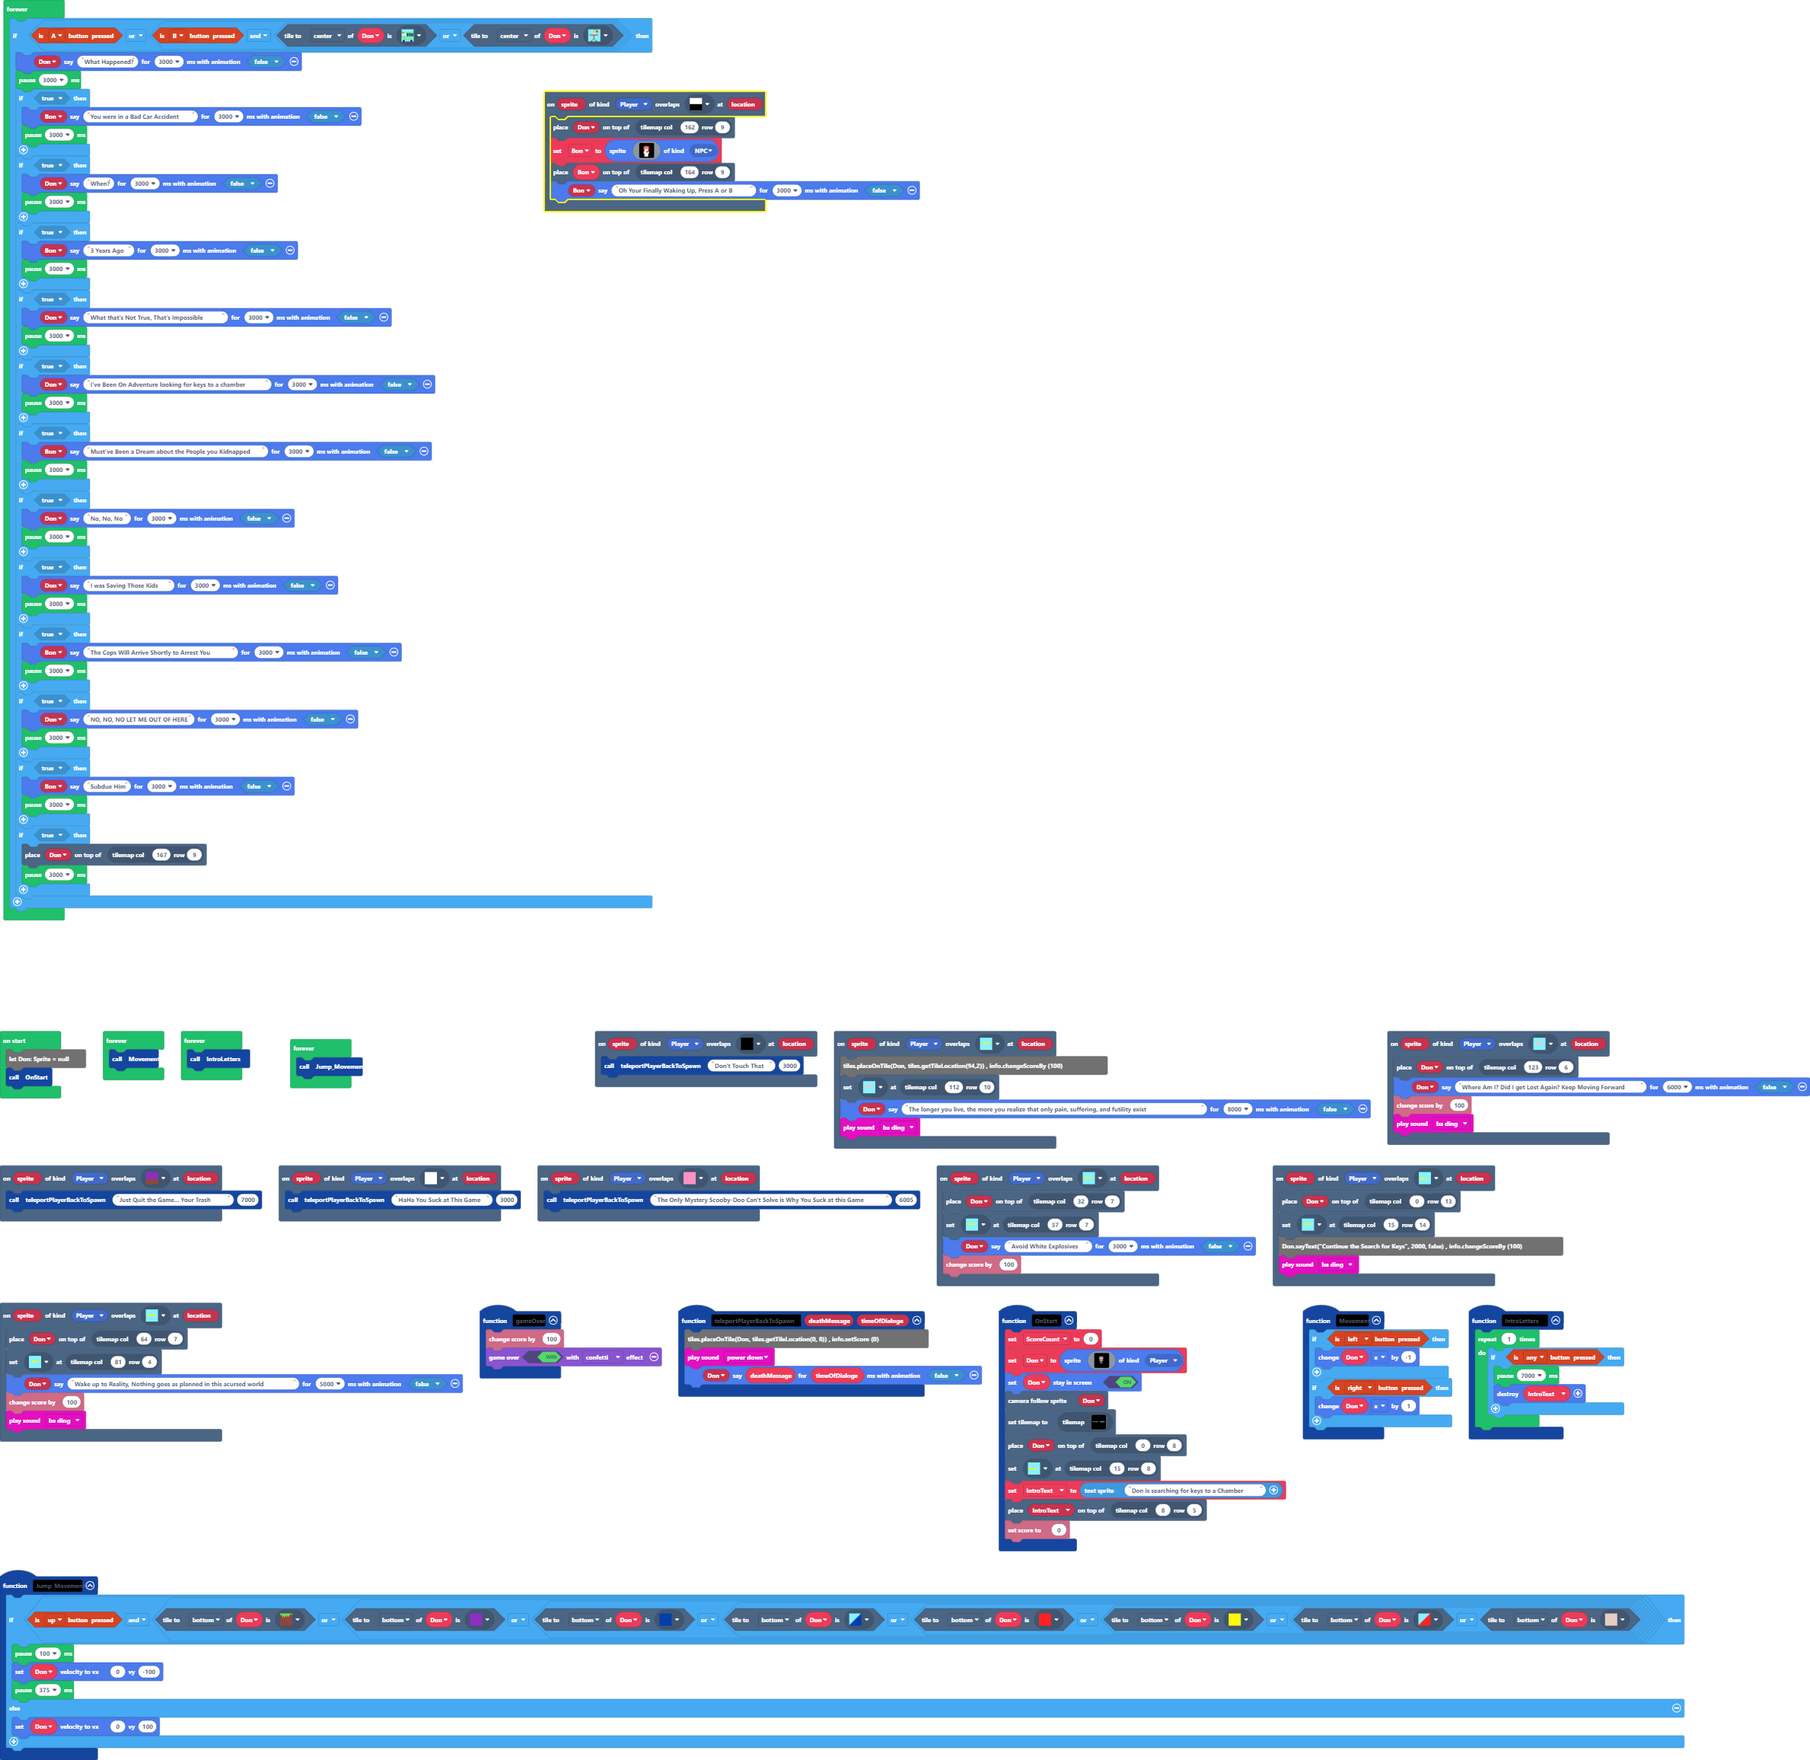
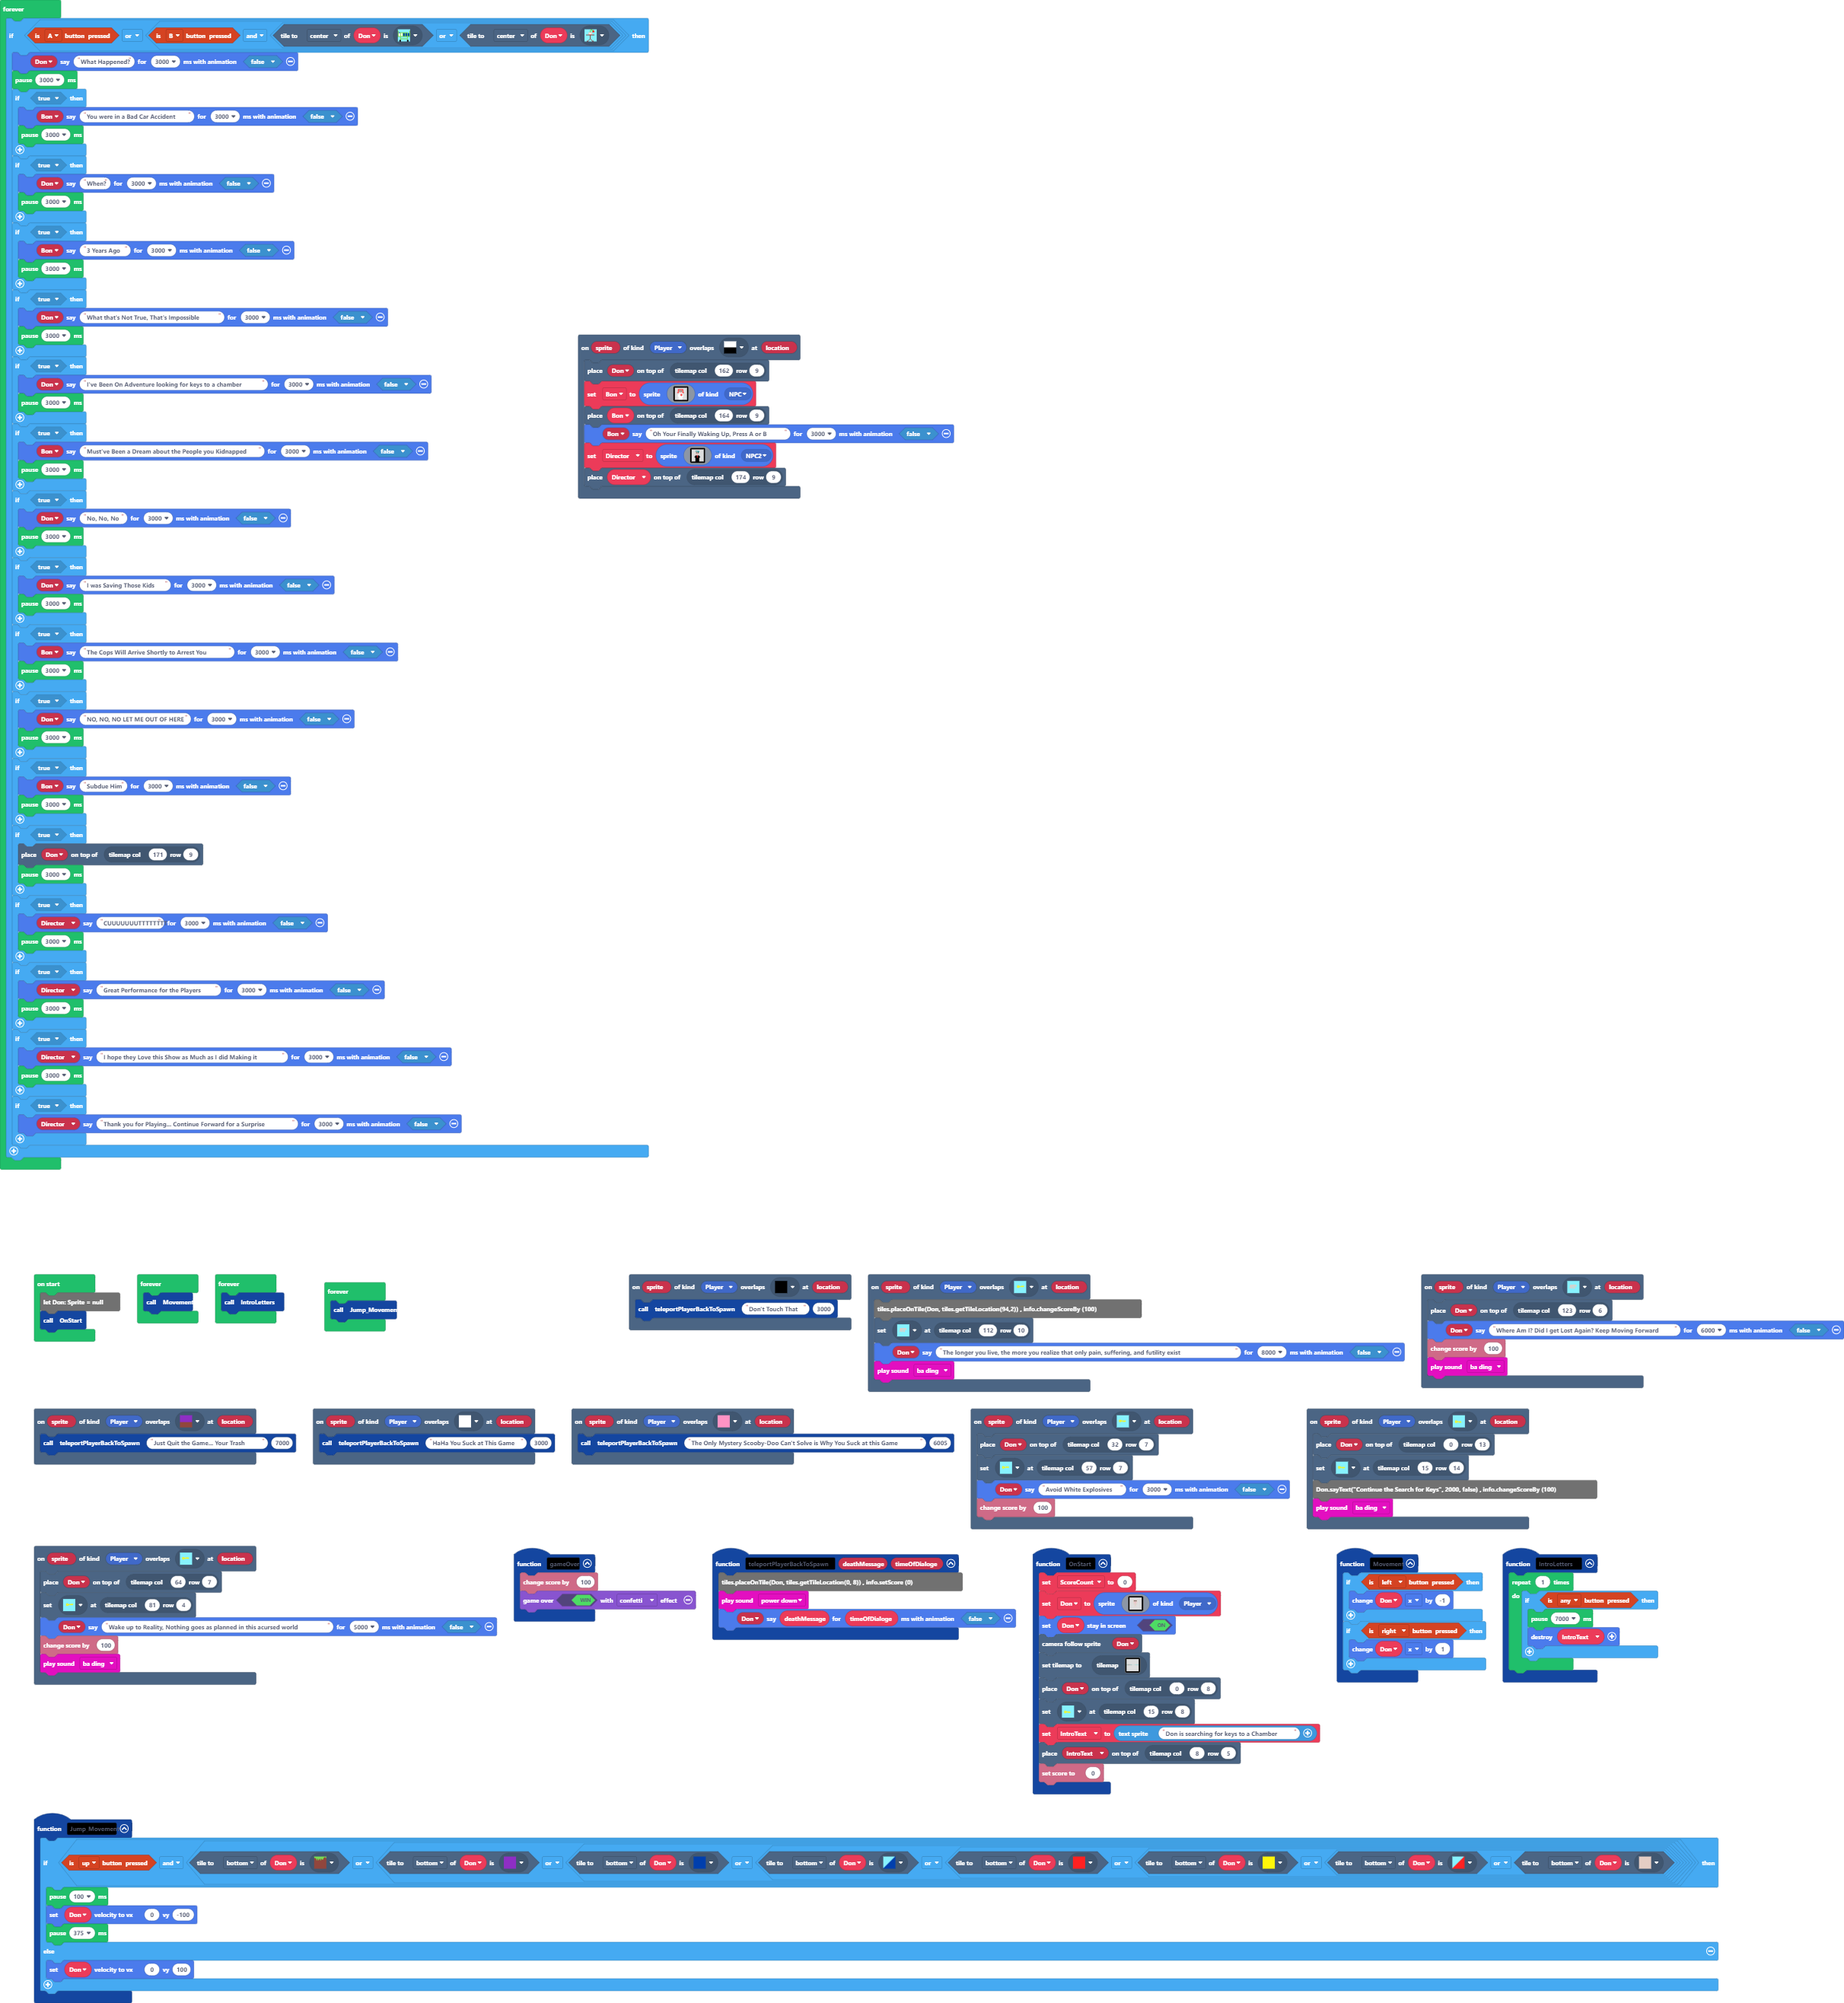
Update main.blocks, main.ts, images.g.jres, images.g.ts, tilemap.g.jres, tilemap.g.ts

Changed region(s): [[0.0, 0.0, 1.0, 1.0], [0.3112, 0.1557, 0.529, 0.2491]]

diff --git a/tilemap.g.ts b/tilemap.g.ts
@@ -272,25 +272,6 @@ namespace myTiles {
 . . . . . . . . . . . . . . . . 
 . . . . . . . . . . . . . . . . 
 `, [myTiles.transparency16], TileScale.Sixteen);
-            case "World102":
[1 lines of base64/hex data omitted]
-.........2222222222222222222222222222222222222222222222222222222222222222222222222222222222222...................2222222222...........................22222222222222222222222222222222222222222222.............................................................
-.........22....2222222222222222222222222222222222222222222222222222222222222222222222222222222...................2222222222...........................2222222222222222222222.222222222222222222222.............................................................
-.........2.....2222222222222222222222222222222222222222222222222222222222222222222222222222222...................2222222222...........................222222222222222222222...22222222222222222222.............................................................
-.........2.222.222222222222222222222222222222222222222222222222222222222222222222222222222222222222..............2222222222...........................2222222222222222222222.222222222222222222222.............................................................
-.........2..22.22222222222222222..........................222222..................222222222222222222.............22222222222222222222.................22222222222222222222222222222222222222222222.............................................................
-.........22.2..22222222222222222..........2...............222222.................22222222222222222222............2222222222.........22................22222222222222222222222222222222222222222222.............................................................
-.....222.2..2.222222222222222222......22..2.........2.....222222.................222222222222222222222...........2222222222..........22...............222222222222...2.............222222222222222.............................................................
-....2222...2....2222222222222222....2.22.22..2......2.....222222...........22..22222222222222222222222...........2222222222222222222..22..............222222222222...2.............222222222222222.............................................................
-...22222..22..2.2222222222222222222222222222222222222..22222222222.......2.22..22222222222222222222222...........2222222222........22..222222222222222222222222222...2.............222222222222222.............................................................
-222222222222222222222222222222222222222222222222222222222222222222....2..2.22..22222222222222222222222...........2222222222.........22................222222222222...2.............222222222222222.............................................................
-222222222222222222222222222222222222222222222222222222222222222222....2.22.22..22222222222222222222222...........2222222222..........222222222222222..22222222222222222222222222222222222222222222.............................................................
-222222222222222222222222222222222222222222222222222222222222222222...22.22.22..22222222222222222222222.......2.222222222222...........................22222222222222222222222222222222222222222222.............................................................
-................22222222222222222222222222222222222222222222222222...22.22.22..22222222222222222222222......222222222222222...........................22222222222222222222222222222222222222222222.............................................................
-...........2....22222222222222222222222222222222222222222222222222222222222222222222222222222222222222....22222222222222222...........................22222222222222222222222222222222222222222222.............................................................
-222..2..2..2....22222222222222222222222222222222222222222222222222222222222222222222222222222222222222222222222222222222222...........................22222222222222222222222222222222222222222222.............................................................
-...222..2222..2222222222222222222222222222222222222222222222222222222222222222222222222222222222222222222222222222222222222...........................22222222222222222222222222222222222222222222.............................................................
-`, [myTiles.transparency16,myTiles.tile1,myTiles.tile4,myTiles.tile5,myTiles.tile6,myTiles.tile8,myTiles.tile9,myTiles.tile10,myTiles.tile11,myTiles.tile12,myTiles.tile14,myTiles.tile17,myTiles.tile19,myTiles.tile21,myTiles.tile22,myTiles.tile23,myTiles.tile28,myTiles.tile29], TileScale.Sixteen);
             case "level13":
             case "level13":return tiles.createTilemap(hex`1000100000000000000000000000000000000000000000000000000000000000000000000000000000000000000000000000000000000000000000000000000000000000000000000000000000000000000000000000000000000000000000000000000000000000000000000000000000000000000000000000000000000000000000000000000000000000000000000000000000000000000000000000000000000000000000000000000000000000000000000000000000000000000000000000000000000000000000000000000000000000000000000000000000000000000000000000000000000000000000000000000000000000000000000000000000000000`, img`
 . . . . . . . . . . . . . . . . 
@@ -310,6 +291,25 @@ namespace myTiles {
 . . . . . . . . . . . . . . . . 
 . . . . . . . . . . . . . . . . 
 `, [myTiles.transparency16], TileScale.Sixteen);
+            case "World102":
[1 lines of base64/hex data omitted]
+.........2222222222222222222222222222222222222222222222222222222222222222222222222222222222222...................2222222222...........................22222222222222222222222222222222222222222222.............................................................
+.........22....2222222222222222222222222222222222222222222222222222222222222222222222222222222...................2222222222...........................2222222222222222222222.222222222222222222222.............................................................
+.........2.....2222222222222222222222222222222222222222222222222222222222222222222222222222222...................2222222222...........................222222222222222222222...22222222222222222222.............................................................
+.........2.222.222222222222222222222222222222222222222222222222222222222222222222222222222222222222..............2222222222...........................2222222222222222222222.222222222222222222222.............................................................
+.........2..22.22222222222222222..........................222222..................222222222222222222.............22222222222222222222.................22222222222222222222222222222222222222222222.............................................................
+.........22.2..22222222222222222..........2...............222222.................22222222222222222222............2222222222.........22................22222222222222222222222222222222222222222222.............................................................
+.....222.2..2.222222222222222222......22..2.........2.....222222.................222222222222222222222...........2222222222..........22...............222222222222...222222........222222222222222.............................................................
+....2222...2....2222222222222222....2.22.22..2......2.....222222...........22..22222222222222222222222...........2222222222222222222..22..............222222222222...222222........222222222222222.............................................................
+...22222..22..2.2222222222222222222222222222222222222..22222222222.......2.22..22222222222222222222222...........2222222222........22..222222222222222222222222222...222222........222222222222222.............................................................
+222222222222222222222222222222222222222222222222222222222222222222....2..2.22..22222222222222222222222...........2222222222.........22................222222222222...222222........222222222222222.............................................................
+222222222222222222222222222222222222222222222222222222222222222222....2.22.22..22222222222222222222222...........2222222222..........222222222222222..22222222222222222222222222222222222222222222.............................................................
+222222222222222222222222222222222222222222222222222222222222222222...22.22.22..22222222222222222222222.......2.222222222222...........................22222222222222222222222222222222222222222222.............................................................
+................22222222222222222222222222222222222222222222222222...22.22.22..22222222222222222222222......222222222222222...........................22222222222222222222222222222222222222222222.............................................................
+...........2....22222222222222222222222222222222222222222222222222222222222222222222222222222222222222....22222222222222222...........................22222222222222222222222222222222222222222222.............................................................
+222..2..2..2....22222222222222222222222222222222222222222222222222222222222222222222222222222222222222222222222222222222222...........................22222222222222222222222222222222222222222222.............................................................
+...222..2222..2222222222222222222222222222222222222222222222222222222222222222222222222222222222222222222222222222222222222...........................22222222222222222222222222222222222222222222.............................................................
+`, [myTiles.transparency16,myTiles.tile1,myTiles.tile4,myTiles.tile5,myTiles.tile6,myTiles.tile8,myTiles.tile9,myTiles.tile10,myTiles.tile11,myTiles.tile12,myTiles.tile14,myTiles.tile17,myTiles.tile19,myTiles.tile21,myTiles.tile22,myTiles.tile23,myTiles.tile28,myTiles.tile29], TileScale.Sixteen);
         }
         return null;
     })

diff --git a/main.ts b/main.ts
@@ -1,12 +1,15 @@
 namespace SpriteKind {
     export const Player2 = SpriteKind.create()
     export const NPC = SpriteKind.create()
+    export const NPC2 = SpriteKind.create()
 }
 scene.onOverlapTile(SpriteKind.Player, assets.tile`toHospital`, function (sprite, location) {
     tiles.placeOnTile(Don, tiles.getTileLocation(162, 9))
     Bon = sprites.create(assets.image`Bon`, SpriteKind.NPC)
     tiles.placeOnTile(Bon, tiles.getTileLocation(164, 9))
     Bon.sayText("Oh Your Finally Waking Up, Press A or B", 3000, false)
+    Director = sprites.create(assets.image`Director`, SpriteKind.NPC2)
+    tiles.placeOnTile(Director, tiles.getTileLocation(174, 9))
 })
 scene.onOverlapTile(SpriteKind.Player, assets.tile`myTile7`, function (sprite, location) {
     teleportPlayerBackToSpawn("Don't Touch That", 3000)
@@ -99,6 +102,7 @@ scene.onOverlapTile(SpriteKind.Player, assets.tile`myTile14`, function (sprite, 
 })
 let IntroText: TextSprite = null
 let ScoreCount = 0
+let Director: Sprite = null
 let Bon: Sprite = null
 let Don: Sprite = null
 OnStart()
@@ -151,8 +155,23 @@ forever(function () {
             pause(3000)
         }
         if (true) {
-            tiles.placeOnTile(Don, tiles.getTileLocation(167, 9))
+            tiles.placeOnTile(Don, tiles.getTileLocation(171, 9))
             pause(3000)
+        }
+        if (true) {
+            Director.sayText("CUUUUUUUTTTTTTTT", 3000, false)
+            pause(3000)
+        }
+        if (true) {
+            Director.sayText("Great Performance for the Players", 3000, false)
+            pause(3000)
+        }
+        if (true) {
+            Director.sayText("I hope they Love this Show as Much as I did Making it", 3000, false)
+            pause(3000)
+        }
+        if (true) {
+            Director.sayText("Thank you for Playing... Continue Forward for a Surprise", 3000, false)
         }
     }
 })

diff --git a/images.g.ts b/images.g.ts
@@ -60,6 +60,44 @@ namespace myImages {
 . . . . . 1 1 1 1 1 . . . . . . 
 . . . . . 1 1 1 1 1 . . . . . . 
 `;
+            case "image3":
+            case "myImage":return img`
+. . . . . . . . . . . . . . . . 
+. . . . . . . . . . . . . . . . 
+. . . . . . . . . . . . . . . . 
+. . . . . . . . . . . . . . . . 
+. . . . . . . . . . . . . . . . 
+. . . . . . . . . . . . . . . . 
+. . . . . . . . . . . . . . . . 
+. . . . . . . . . . . . . . . . 
+. . . . . . . . . . . . . . . . 
+. . . . . . . . . . . . . . . . 
+. . . . . . . . . . . . . . . . 
+. . . . . . . . . . . . . . . . 
+. . . . . . . . . . . . . . . . 
+. . . . . . . . . . . . . . . . 
+. . . . . . . . . . . . . . . . 
+. . . . . . . . . . . . . . . . 
+`;
+            case "image5":
+            case "Director":return img`
+. . . . . . . . . . . . . . . . 
+. . . . . . . . . . . . . . . . 
+. . . . . 6 6 6 6 6 . . . . . . 
+. . . . . d d d 6 6 . . . . . . 
+. . . . . d f d f d . . . . . . 
+. . . . . d d d d d . . . . . . 
+. . . . . d d 3 d d . . . . . . 
+. . . . . . . d . . . . . . . . 
+. . . . . f f 2 f f . . . . . . 
+. . . . f f f 2 f f f . . . . . 
+. . . . f f f 2 f f f . . . . . 
+. . . . . f f f f f . . . . . . 
+. . . . . f f f f f . . . . . . 
+. . . . . f f f f f . . . . . . 
+. . . . . f f f f f . . . . . . 
+. . . . . f f f f f . . . . . . 
+`;
         }
         return null;
     })
